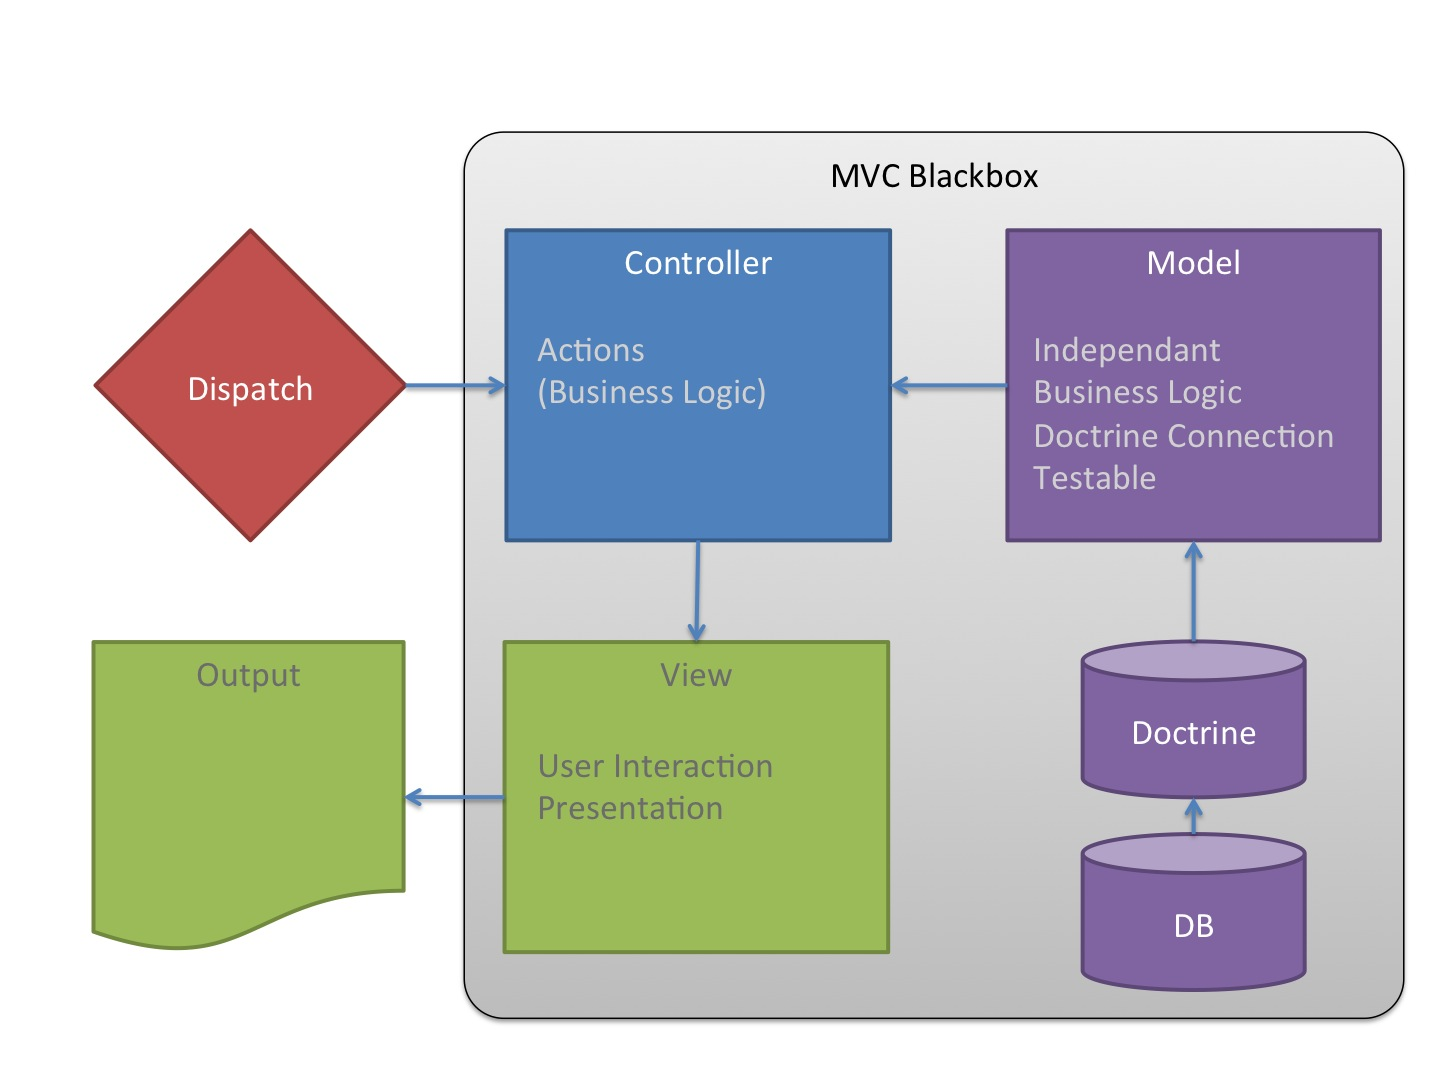
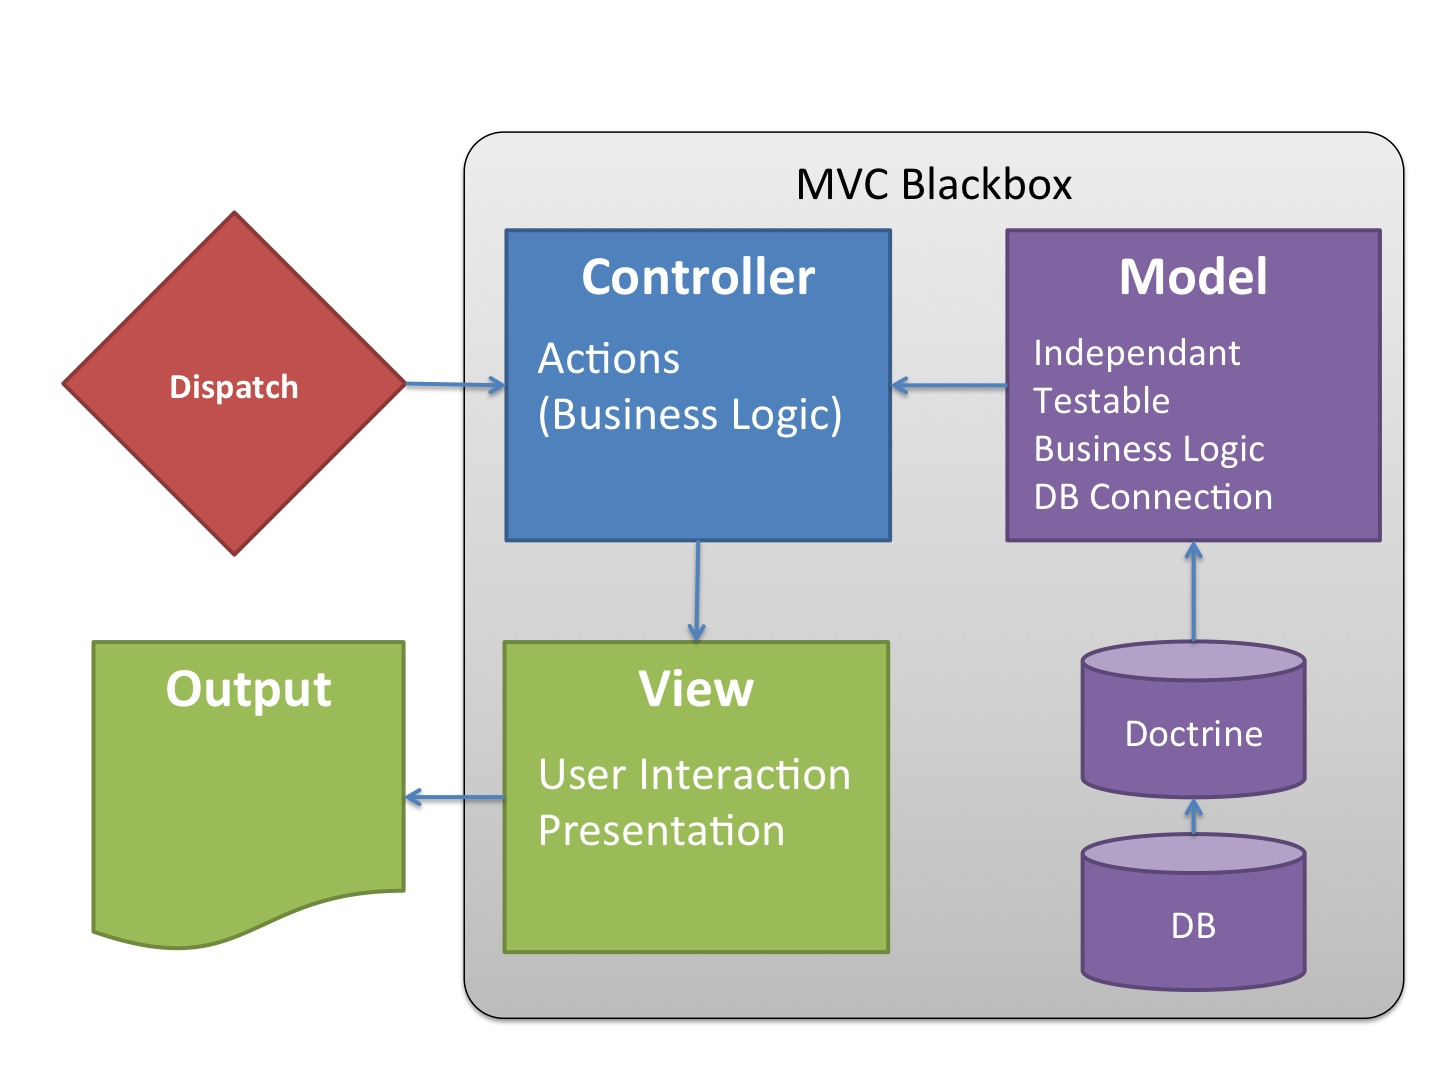
master - RC2

diff --git a/presentation-output.html b/presentation-output.html
@@ -75,13 +75,36 @@ URL: https://code.google.com/p/io-2012-slides
       <h3></h3>
     </hgroup>
     <article ><ul class="build">
-<li>Last year we have presented our Cookbok...</li>
+<li>Last year we have presented our Cookbook...</li>
 <li>
 <p>... today you get a Ratatouille ;-)</p>
 </li>
 <li>
-<p>Let's share the experiences you and we made in the last year!</p>
+<p><strong>Let's share the experiences you and we made in the last year!</strong></p>
 </li>
+<li>
+<p><a href="http://de.slideshare.net/dfritschy/how-to-start-with-ez-publish-5">http://de.slideshare.net/dfritschy/how-to-start-with-ez-publish-5</a></p>
+</li>
+<li><a href="https://github.com/dfritschy/cjw-cookbook">https://github.com/dfritschy/cjw-cookbook</a></li>
+</ul></article>
+ 
+</slide>
+
+<slide  >
+  
+    <hgroup>
+      <h2>Who is in the audience?</h2>
+      <h3></h3>
+    </hgroup>
+    <article ><ul class="build">
+<li>Who is coming from the eZ World?</li>
+<li>
+<p>Who is coming from the Symfony World?</p>
+</li>
+<li>
+<p>Who has realized eZ Publish 5 sites (productive)?</p>
+</li>
+<li>Who has realized pure eZ Publish 5 sites (no legacy)?</li>
 </ul></article>
  
 </slide>
@@ -124,7 +147,7 @@ URL: https://code.google.com/p/io-2012-slides
 <li>It's easier for a Smyfony Crack to learn eZ than other way round</li>
 <li>Symfony community is hungry for a CMS, so watch out for new competition</li>
 <li>But @Symfony cracks: It's not easy: an eZ Publish and CMS expert will reduce your risk</li>
-<li>and will make your content architecture better and more maintainable</li>
+<li>And will make your content architecture better and more maintainable</li>
 </ul></article>
  
 </slide>
@@ -149,7 +172,7 @@ URL: https://code.google.com/p/io-2012-slides
       <h2>MVC Blackbox</h2>
       <h3></h3>
     </hgroup>
-    <article ><p><img src="images/mvc.jpg" alt="" width="800" style="margin-top:-40px"></p></article>
+    <article ><p><img src="images/mvc.jpg" alt="" width="800" style="margin-top:-50px"></p></article>
  
 </slide>
 
@@ -163,8 +186,9 @@ URL: https://code.google.com/p/io-2012-slides
 <ul class="build">
 <li>Use a least one bundle per site</li>
 <li>Split your application in different bundles (site specific, functional, ...)</li>
+<li>Reuse your code: create and maintain with love a Base Bundle with general functions</li>
 <li>
-<p>Reuse your code: create and maintain with love a Base Bundle with general functions</p>
+<p>Refactor it frequently as you learn and the product evolves</p>
 </li>
 <li>
 <p>Creating bundles is easy, don't work in the DemoBundle ;-)
@@ -185,7 +209,7 @@ $ php ezpublish/console generate:bundle
       <h3></h3>
     </hgroup>
     <article ><p>The standard eZ installation is a mess...</p>
-<p>... and the DemoBundle only slowly becoming a source of good practice</p>
+<p>... and the DemoBundle is only slowly becoming a source of good practice</p>
 <p><em>How do YOU handle this?</em></p>
 <ul class="build">
 <li>keep config in <code>ezpublish/config</code> as general as possible</li>
@@ -207,18 +231,18 @@ imports:
     - {resource: "@CjwExampleBundle/Resources/config/ezpublish.yml"}
 ezpublish:
     siteaccess:
-        default_siteaccess: %cjw.site%_user
+        default_siteaccess:<b>%cjw.site%</b>_user
         list:
         groups:
-            default_group:
+            <b>default_group</b>:
         match:
             \Cjw\MultiSiteBundle\Matcher\MapHost:
-                www.frb.ch: %cjw.site%_user
-                admin.frb.ch: %cjw.site%_admin
+                www.%cjw.site%.ch: %cjw.site%_user
+                admin.%cjw.site%.ch: %cjw.site%_admin
     repositories:
-        default_repository:
+        <b>default_repository</b>:
             engine: legacy
-            connection: default_connection
+            connection: <b>default_connection</b>
 </pre></article>
  
 </slide>
@@ -320,25 +344,25 @@ ExampleBundle
  
 </slide>
 
-<slide  >
+<slide class="smaller" >
   
     <hgroup>
       <h2>Ways to Fetch Content</h2>
       <h3></h3>
     </hgroup>
     <article ><ul class="build">
-<li>LocationService::loadLocation( $id )</li>
+<li>LocationService::loadLocation( $id ) --&gt; location</li>
 <li>
-<p>ContentService::loadContent( $id )</p>
+<p>ContentService::loadContent( $id )   --&gt; content</p>
 </li>
 <li>
-<p>SearchService::findContent( $query )</p>
+<p>SearchService::findContent( $query ) --&gt; list of content</p>
 </li>
 <li>
-<p>SearchService::findLocations( $query )</p>
+<p>SearchService::findLocations( $query ) --&gt; list of location</p>
 </li>
 <li>
-<p>LocationService::loadLocationChildren( $location )</p>
+<p>LocationService::loadLocationChildren( $location ) --&gt; list of location</p>
 </li>
 <li>
 <p>Legacy fetch functions</p>
@@ -599,7 +623,7 @@ views
 <ul>
 <li>eZ uses Expiration model by default</li>
 <li>Standard TTL is 60 seconds (86400 for tree menu!)</li>
-<li>Symfony Cache is purged from backend, <strong>but only for ONE location</strong></li>
+<li>Symfony Cache is purged from backend</li>
 </ul>
 <p>Let's dive in a bit deeper...</p></article>
  

diff --git a/scripts/md/slides.md b/scripts/md/slides.md
@@ -12,7 +12,7 @@ build_lists: true
 
 -->
 
-* <strong>Donat</strong> is owner of Webmanufaktur, a full service web agency in Switzerland. He works as projects manager, software architect and developer and likes thinking outside of the box. In the last year he has been involved in major eZ 5 projects.
+* <strong>Donat</strong> is owner of Webmanufaktur, a full service web agency in Switzerland. He works as projects manager, software architect and developer and likes thinking outside of the box. In the last year he has been involved in major pure eZ 5 projects.
 * <strong>Ekke</strong> is a consultant with deep knowledge in eZ Publish 4 and 5, eZ Find / Apache Solr and with a faible for coming cutting edge web technologies. He is one of the organizers of the PHP Unconference since eight years.
 * Members of CJW Network
 
@@ -22,10 +22,24 @@ title: Learnings from Real eZ Publish 5 Projects
 class: big
 build_lists: true
 
-- Last year we have presented our Cookbok...
+- Last year we have presented our Cookbook...
 - ... today you get a Ratatouille ;-)
 
-- Let's share the experiences you and we made in the last year!
+- **Let's share the experiences you and we made in the last year!**
+
+- <http://de.slideshare.net/dfritschy/how-to-start-with-ez-publish-5>
+- <https://github.com/dfritschy/cjw-cookbook>
+
+---
+
+title: Who is in the audience?
+build_lists: true
+
+- Who is coming from the eZ World?
+- Who is coming from the Symfony World?
+
+- Who has realized eZ Publish 5 sites (productive)?
+- Who has realized pure eZ Publish 5 sites (no legacy)?
 
 ---
 
@@ -56,7 +70,7 @@ build_lists: true
 - It's easier for a Smyfony Crack to learn eZ than other way round
 - Symfony community is hungry for a CMS, so watch out for new competition
 - But @Symfony cracks: It's not easy: an eZ Publish and CMS expert will reduce your risk
-- and will make your content architecture better and more maintainable
+- And will make your content architecture better and more maintainable
 ---
 
 title: Think in MVC
@@ -70,7 +84,7 @@ build_lists: true
 
 title: MVC Blackbox
 
-<img src="images/mvc.jpg" alt="" width="800" style="margin-top:-40px">
+<img src="images/mvc.jpg" alt="" width="800" style="margin-top:-50px">
 
 ---
 
@@ -82,6 +96,7 @@ build_lists: true
 - Use a least one bundle per site
 - Split your application in different bundles (site specific, functional, ...)
 - Reuse your code: create and maintain with love a Base Bundle with general functions
+- Refactor it frequently as you learn and the product evolves
 
 - Creating bundles is easy, don't work in the DemoBundle ;-)
 <li>
@@ -97,7 +112,7 @@ build_lists: true
 
 The standard eZ installation is a mess...
 
-... and the DemoBundle only slowly becoming a source of good practice
+... and the DemoBundle is only slowly becoming a source of good practice
 
 *How do YOU handle this?*
 
@@ -117,18 +132,18 @@ imports:
     - {resource: "@CjwExampleBundle/Resources/config/ezpublish.yml"}
 ezpublish:
     siteaccess:
-        default_siteaccess: %cjw.site%_user
+        default_siteaccess:<b>%cjw.site%</b>_user
         list:
         groups:
-            default_group:
+            <b>default_group</b>:
         match:
             \Cjw\MultiSiteBundle\Matcher\MapHost:
-                www.frb.ch: %cjw.site%_user
-                admin.frb.ch: %cjw.site%_admin
+                www.%cjw.site%.ch: %cjw.site%_user
+                admin.%cjw.site%.ch: %cjw.site%_admin
     repositories:
-        default_repository:
+        <b>default_repository</b>:
             engine: legacy
-            connection: default_connection
+            connection: <b>default_connection</b>
 </pre>
 
 ---
@@ -217,14 +232,15 @@ After several tries, we ended up with...
 
 title: Ways to Fetch Content
 build_lists: true
+class: smaller
 
-- LocationService::loadLocation( $id )
-- ContentService::loadContent( $id )
+- LocationService::loadLocation( $id ) --&gt; location
+- ContentService::loadContent( $id )   --&gt; content
 
-- SearchService::findContent( $query )
-- SearchService::findLocations( $query )
+- SearchService::findContent( $query ) --&gt; list of content
+- SearchService::findLocations( $query ) --&gt; list of location
 
-- LocationService::loadLocationChildren( $location )
+- LocationService::loadLocationChildren( $location ) --&gt; list of location
 
 - Legacy fetch functions
 
@@ -433,7 +449,7 @@ Symfony's HTTP Cache caches **requests**
 
 * eZ uses Expiration model by default
 * Standard TTL is 60 seconds (86400 for tree menu!)
-* Symfony Cache is purged from backend, **but only for ONE location**
+* Symfony Cache is purged from backend
 
 Let's dive in a bit deeper...
 
